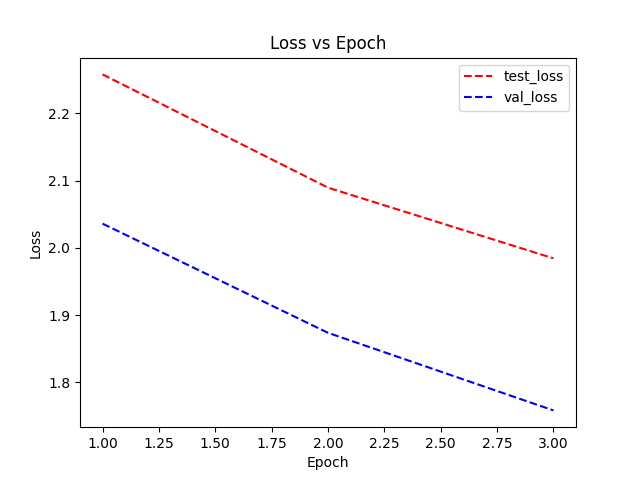
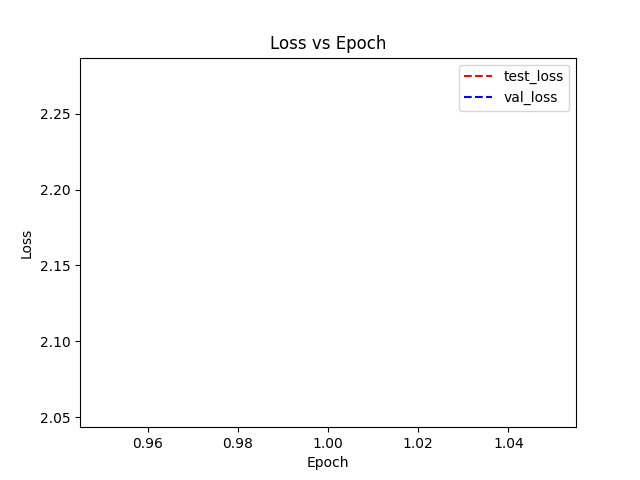
video opens, not tracking is being detected

diff --git a/project_3/testscript2.py b/project_3/testscript2.py
@@ -2,45 +2,27 @@
 
 import cv2
 import torch
-from my_tracker import load_faster_rcnn, Siamese_Network
+from my_tracker import load_faster_rcnn2, Siamese_Network
 from torchvision import transforms
 import torch.nn.functional as F
 
 
 print("Loading Faster R-CNN model...")
-try:
-    feature_extractor = load_faster_rcnn("best.pth")
-    feature_extractor.eval()
-    print("Faster R-CNN model loaded successfully.")
-except Exception as e:
-    print(f"Error loading Faster R-CNN model: {e}")
-    exit()
-
-
-
-#feature_extractor = load_faster_rcnn("best.pth")
-#feature_extractor.eval()
+feature_extractor = load_faster_rcnn2("best.pth")
+feature_extractor.eval()
+print("Faster R-CNN model loaded successfully.")
 
 print("Loading Siamese Network model...")
-try:
-    siamese_net = Siamese_Network()
-    siamese_net_weights = torch.load(
+siamese_net = Siamese_Network()
+siamese_net_weights = torch.load(
         "siamese_network_reid.pth", map_location="cuda" if torch.cuda.is_available() else "cpu", weights_only=True
     )
-    siamese_net.load_state_dict(siamese_net_weights)
-    siamese_net.eval()
-    print("Siamese Network model loaded successfully.")
-except Exception as e:
-    print(f"Error loading Siamese Network model: {e}")
-    exit()
-
-#siamese_net = Siamese_Network()
-#siamese_net_weights = torch.load("siamese_network_reid.pth", map_location=torch.device('cuda'), weights_only=True)  # or 'cuda' if available
-#siamese_net.load_state_dict(siamese_net_weights)
-#siamese_net.eval()
+siamese_net.load_state_dict(siamese_net_weights)
+siamese_net.eval()
+print("Siamese Network model loaded successfully.")
 
 # video from google drive
-video_path = "project3\\output_with_mask.mp4"
+video_path = "output_with_mask.mp4"
 cap = cv2.VideoCapture(video_path)
 if not cap.isOpened():
     print("Error: Video file could not be opened.")
@@ -62,19 +44,9 @@ while cap.isOpened():
 
     # Detection PortioN:
     with torch.no_grad():
-        #detections = feature_extractor(frame_tensor)
-        try:
-            detections = feature_extractor(frame_tensor)
-        except Exception as e:
-            print(f"Error during object detection: {e}")
-            break
+        detections = feature_extractor(frame_tensor)
 
-    try:
-        boxes, labels, scores = detections['boxes'], detections['labels'], detections['scores']
-    except KeyError as e:
-        print(f"Unexpected format in detections output: missing key {e}")
-        break
-    #boxes, labels, scores = detections['boxes'], detections['labels'], detections['scores']
+    boxes, labels, scores = detections[0]['boxes'], detections[0]['labels'], detections[0]['scores']
 
     for box, label, score in zip(boxes, labels, scores):
         if score > 0.5: 
@@ -90,7 +62,7 @@ while cap.isOpened():
             except Exception as e:
                 print(f"Error during Siamese Network feature extraction: {e}")
                 break
-            
+
             # Matching and tracking logic
             matched_id = None
             min_distance = float('inf')

diff --git a/project_3/moviepytest.py b/project_3/moviepytest.py
@@ -1,0 +1,46 @@
+import torch
+import numpy as np
+import matplotlib.pyplot as plt
+from torchvision import models, transforms
+
+# Load the model
+model = models.segmentation.deeplabv3_resnet101(pretrained=True)
+model.eval()  # Set the model to evaluation mode
+
+# Assume 'image' is your input image tensor, properly preprocessed.
+# Example preprocessing for a single image:
+preprocess = transforms.Compose([
+    transforms.ToPILImage(),
+    transforms.Resize((520, 520)),
+    transforms.ToTensor(),
+])
+image = preprocess(image).unsqueeze(0)  # Add batch dimension
+
+# Forward pass through the model
+with torch.no_grad():
+    detections = model(image)  # Get the output from the model
+
+# Extract the output tensors from the OrderedDict
+outputs = detections.values()  # Get the tensor values from the OrderedDict
+
+# Loop through each output tensor and visualize
+for idx, output_tensor in enumerate(outputs):
+    # Move tensor to CPU and convert to numpy array
+    output_array = output_tensor.cpu().detach().numpy()
+    
+    # If output_tensor has shape (N, C, H, W), process it accordingly
+    # Here we take the first output (typically there's a batch dimension)
+    output_array = output_array[0]  # Get the first output tensor (N=1)
+
+    # If the tensor has more than 1 channel, transpose it for visualization
+    if output_array.shape[0] > 1:
+        output_array = output_array.transpose(1, 2, 0)  # Rearrange to (H, W, C)
+
+    # Normalize values to [0, 1] if needed (assuming the range is not [0, 1])
+    output_array = (output_array - output_array.min()) / (output_array.max() - output_array.min())
+
+    # Plot the output
+    plt.imshow(output_array)
+    plt.title(f"Output Tensor {idx}")
+    plt.axis('off')  # Turn off axis
+    plt.show()

diff --git a/project_3/my_rcnn.py b/project_3/my_rcnn.py
@@ -31,11 +31,11 @@ def validate(model, val_data_path, image_folder):
     transform = T.ToTensor()
 
     val_data = parse_gt_file(val_data_path)
-    frame_ids = sorted(set(obj['frame_id'] for obj in gt_data))
+    frame_ids = sorted(set(obj['frame_id'] for obj in val_data))
     
     with torch.no_grad():
         for frame_id in frame_ids:
-            image, boxes, labels = prepare_data(gt_data, image_folder, frame_id) 
+            image, boxes, labels = prepare_data(val_data, image_folder, frame_id) 
             
             image_cuda = [transform(image).to(device)]
 
@@ -45,6 +45,18 @@ def validate(model, val_data_path, image_folder):
             targets = [{"boxes" : box_tensor, "labels" : label_tensor}]
 
             outputs = model(image_cuda)
+
+            if len(outputs) > 0:
+                boxes = outputs[0]['boxes']
+                labels = outputs[0]['labels']
+                scores = outputs[0]['scores']
+
+                print(f"Boxes: {boxes}")       # Print the detected bounding boxes
+                print(f"Labels: {labels}")     # Print the predicted labels
+                print(f"Scores: {scores}") 
+            else:
+                print("No outputs from the model.")
+                continue
 
             losses = sum(loss for loss in loss_dict.values())
 
@@ -93,7 +105,7 @@ if __name__ == '__main__':
     device = torch.device("cuda") if torch.cuda.is_available() else torch.device("cpu")
     print(device)
 
-    num_epochs = 3
+    num_epochs = 1
 
     # load data
     transform = T.ToTensor()
@@ -159,5 +171,4 @@ if __name__ == '__main__':
 
     plot_loss(test_loss_arr, val_loss_arr, num_epochs)
 
-# how to add augmentations??????
 

diff --git a/project_3/my_tracker.py b/project_3/my_tracker.py
@@ -84,10 +84,38 @@ def load_faster_rcnn(faster_rcnn_path):
     num_classes = 81
     in_features = model.roi_heads.box_predictor.cls_score.in_features
     model.roi_heads.box_predictor = FastRCNNPredictor(in_features, num_classes)
+    
+    
     model.load_state_dict(torch.load(faster_rcnn_path, map_location="cuda" if torch.cuda.is_available() else "cpu"))
     for param in model.parameters():
         param.requires_grad = False
     return model.backbone  
+
+
+
+def load_faster_rcnn2(faster_rcnn_path):
+    model = fasterrcnn_resnet50_fpn(weights='DEFAULT')
+    num_classes = 81 
+    in_features = model.roi_heads.box_predictor.cls_score.in_features
+    model.roi_heads.box_predictor = FastRCNNPredictor(in_features, num_classes)
+    model.load_state_dict(torch.load(faster_rcnn_path, map_location="cuda" if torch.cuda.is_available() else "cpu"))
+    
+    for param in model.parameters():
+        param.requires_grad = False  # Freeze all layers
+
+    for param in model.roi_heads.box_predictor.parameters():
+        param.requires_grad = True  # Allow training for the box predictor
+    model.eval()
+    return model  # Return the entire model
+
+# Load the model
+print("Loading Faster R-CNN model...")
+try:
+    feature_extractor = load_faster_rcnn("best.pth")
+    print("Faster R-CNN model loaded successfully.")
+except Exception as e:
+    print(f"Error loading Faster R-CNN model: {e}")
+    exit()
 
 
 def train_siamese(siamese_net, feature_extractor, dataloader, optimizer, criterion, device):
